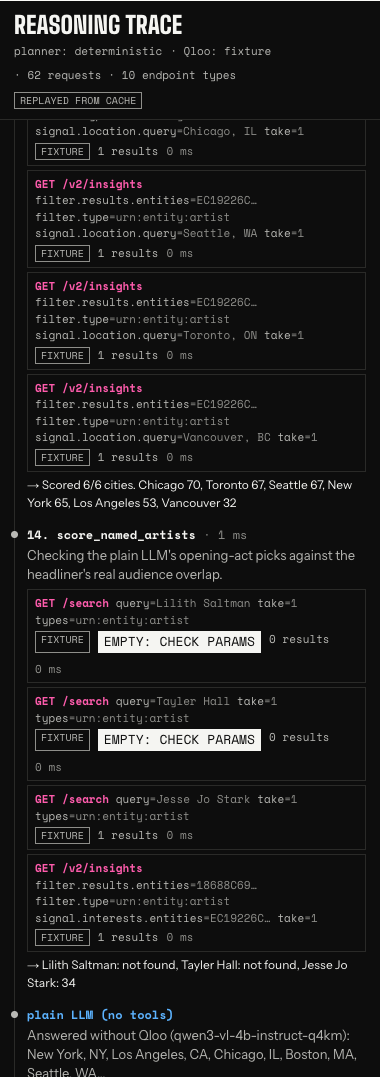
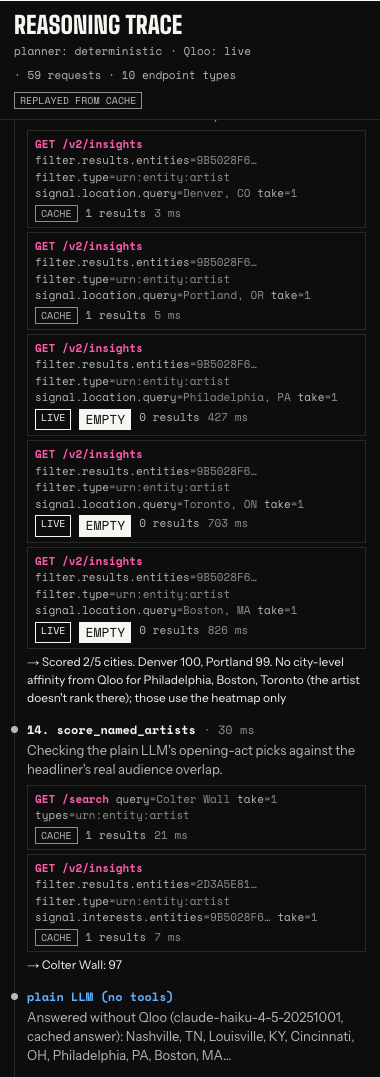
Live: deployed to Vercel (headliner-qloo-eta.vercel.app); README, DEPLOY, SUBMISSION and DEMO_SCRIPT with live numbers; thumbnail, gallery, video cards and README images re-rendered from the live site

diff --git a/docs/SUBMISSION.md b/docs/SUBMISSION.md
@@ -4,7 +4,7 @@ Deadline **30 Oct 2026, 11:45 pm EDT** (31 Oct 03:45 UTC). Judging 2–16 Nov; w
 
 Fields below follow the standard Devpost "Enter a submission" form and the official rules' requirements (functional demo link, public repo with an open-source licence visible in the GitHub About section, text description). The hackathon-specific questions are only visible after logging in; check the form for extra questions and answer them from the sections below. The Qloo hackathon kit's submission guide (github.com/qloo/qloo-hackathon-kit, `docs/SUBMISSION.md`) asks for six things, all covered: problem statement, Qloo workflow and why, a redacted request-to-result example, screenshots, setup steps, and known limitations.
 
-> **Before pasting:** replace every `[[…]]` placeholder with live numbers from the deployed app once the Qloo key is in. Do not publish fixture numbers as Qloo findings.
+> All numbers below are from the live deployment (live Qloo data, 16 Oct 2026, Tyler Childers sample). The plain-LLM answers are cached Claude Haiku 4.5 answers to the app's prompt, and the text says so.
 
 ---
 
@@ -17,10 +17,10 @@ An agent for tour promoters: it routes the tour, picks the opener and finds spon
 _(158 characters)_
 
 ## Thumbnail
-`docs/gallery/thumbnail.png` (1500x1000, 3:2): both routes side by side and the average fan score pair, rendered from a real run by `scripts/assets.ts`. `docs/gallery/thumbnail-300.png` is the gallery-size check. Gallery images: `docs/gallery/01-verdict.png` to `06-brief.png`, in that order. Re-render all of them from live mode once the key is in (design rules: `design/DESIGN.md`, section 6).
+`docs/gallery/thumbnail.png` (1500x1000, 3:2): both routes side by side and the average fan score pair, rendered from a real run by `scripts/assets.ts`. `docs/gallery/thumbnail-300.png` is the gallery-size check. Gallery images: `docs/gallery/01-verdict.png` to `06-brief.png`, in that order. All rendered from the live deployment (design rules: `design/DESIGN.md`, section 6).
 
 ## Try it out
-- Live demo: `https://headliner-qloo.fly.dev` (no login; click **Try a sample → Noah Kahan**)
+- Live demo: `https://headliner-qloo-eta.vercel.app` (no login; click **Try a sample → Tyler Childers**)
 - Code: `https://github.com/ubmids/headliner` (MIT)
 
 ## Video
@@ -43,19 +43,22 @@ Headliner is an **agent for live-music promoters and tour planners**. Type an ar
 
 Every Qloo request (endpoint, parameters, result count, latency) streams into a **reasoning trace** as it happens.
 
-**Without Qloo / with Qloo.** The same question goes to the plain LLM with no tools. Headliner then **fact-checks** that answer with the same Qloo calls it used for its own plan. In [[live run, artist]], the LLM's cities averaged a fan score of [[X]] against [[Y]] for Headliner's route, and it never mentioned [[sleeper market]]. [[Keep only if the live run shows it: Some of its suggested openers don't exist in Qloo at all.]] The brief says it directly: *"If your submission would work the same without Qloo, you're building the wrong thing."* Headliner shows the gap as a number.
+**Without Qloo / with Qloo.** The same question goes to the plain LLM with no tools. Headliner then **fact-checks** that answer with the same Qloo calls it used for its own plan. For an 8-date Tyler Childers tour, the plain LLM (Claude Haiku 4.5, same prompt, no tools; the demo serves its recorded answer) sends him to Philadelphia, Boston and Toronto. Qloo scores those cities 75, 86 and 57 for his fans, and 5 of the LLM's 8 cities land in the bottom half of Qloo's ranking. Headliner's route averages a fan score of **96 against 86**, opens in Asheville, NC (98), a market the LLM never named, and picks Charley Crockett to open (fan overlap 98 vs 97 for the LLM's Colter Wall). The brief says it directly: *"If your submission would work the same without Qloo, you're building the wrong thing."* Headliner shows the gap as a number.
 
 ### How we built it
 - **Next.js 15 + TypeScript**, one app. The agent streams its events (steps, Qloo calls, the LLM baseline, the result) as NDJSON to a React UI with a Leaflet map and hand-built SVG charts.
 - **Agent:** 12 tools, each wrapping documented Qloo calls. An **OpenAI-compatible tool-calling loop** lets the LLM choose the next tool, and every call carries a one-sentence reason that becomes the trace. A deterministic planner runs the same tools when no LLM is configured. A coverage guard refuses to finish a brief until routing, support act and sponsors are each grounded in Qloo results.
 - **Qloo client:** typed endpoints validated with zod, the `hackathon.api.qloo.com` host enforced, retries on 429/5xx, empty-result flagging (Qloo silently ignores invalid parameters), and a server-side cache of responses and finished runs, so judges get instant replays.
 - **Qloo endpoints:** `/search`, `/v2/tags`, `/v2/insights` (heatmap, artist, place, brand, tag, demographics), `/v2/analysis/compare`, `/v2/trending`. About 60 requests per plan.
-- **Scoring:** fan score blends heatmap affinity with location-conditioned artist affinity, normalised across the whole region. Over-index = concentration minus volume (heatmap popularity).
-- **Tests:** 50 unit and integration tests (client, fixtures, scoring, contrast, CSV, the LLM loop with a scripted model, and the full agent on fixtures). One test asserts that every request uses only documented Qloo parameters.
+- **Scoring:** fan score blends heatmap affinity with location-conditioned artist affinity on Qloo's own 0-1 scale (times 100, not rescaled), so strong markets cluster in the 90s and a 10-point gap is large. Tiers compare each market with the rest of the region: over-index = concentration percentile minus volume (heatmap popularity) percentile.
+- **Deploy:** Vercel (free tier). Qloo calls are live from the server; 16 artists are pre-run before each deploy so judges get instant replays, and any other artist runs live in about 15–25 s.
+- **Tests:** 52 unit and integration tests (client, fixtures, scoring, contrast, CSV, the LLM loop with a scripted model, and the full agent on fixtures). One test asserts that every request uses only documented Qloo parameters.
 
 ### Challenges we ran into
 - **No API key for most of the build.** We wrote the client against the published reference and Qloo's own harness, then built a fixture mode by running the real agent against a schema-faithful stand-in. `scripts/qloo-smoke.sh` validated every call the moment the key arrived.
 - **Silent failures.** Qloo ignores invalid parameters, so a typo returns an empty list rather than an error. The client flags every empty result in the trace, and the smoke test checks that location parameters actually change the answer.
+- **Real data broke three assumptions.** The locality heatmap boundary took about 50 s per call live, so the agent now folds geohash cells (2 s) into cities. Trending percentiles came back as rank fractions (0.11 = top 11%), not 0-100. Two cities of one metro (New York and Brooklyn) both made the route, so the planner now books one date per metro.
+- **No LLM key on the host.** The plain-LLM answers are recorded ahead of time and labelled as cached in the UI; everything Qloo is live.
 - **Keeping the LLM honest.** Tools return Qloo IDs and scores. The brief's numbers come from tool results and are never generated, and the coverage guard catches a model that tries to finish early.
 
 ### Accomplishments that we're proud of
@@ -80,26 +83,27 @@ Ticketing and capacity data next to fan concentration (room-size recommendations
 ```
 GET https://hackathon.api.qloo.com/v2/insights
     ?filter.type=urn:heatmap
-    &signal.interests.entities=<Noah Kahan entity ID>
+    &signal.interests.entities=<Tyler Childers entity ID>
     &filter.location=POLYGON((-125 24, -66 24, -66 50, -125 50, -125 24))
     &output.heatmap.boundary=urn:geohash
     &take=50
 X-Api-Key: <redacted>
 → results.heatmap[]: { location: {latitude, longitude}, query: {affinity, affinity_rank, popularity} }
-→ folded to cities; affinity high + popularity low = "sleeper" market ([[live example]])
+→ 6,391 geohash cells, folded to cities; affinity high + popularity low = "sleeper" market
+  (live: Charlottesville, VA, fan score 93, over-indexes +0.26 for its size)
 ```
 
 ---
 
 ## Built with
-`qloo` · `qloo-insights-api` · `typescript` · `next.js` · `react` · `node.js` · `leaflet` · `natural-earth` · `zod` · `vitest` · `openai-compatible-api` · `llm-tool-calling` · `fly.io` · `docker`
+`qloo` · `qloo-insights-api` · `typescript` · `next.js` · `react` · `node.js` · `leaflet` · `natural-earth` · `zod` · `vitest` · `openai-compatible-api` · `llm-tool-calling` · `claude` · `vercel`
 
 ## Submission checklist (rules)
-- [ ] Functional demo link, externally hosted, free, no login, up until 16 Nov 23:45 EST
+- [x] Functional demo link, externally hosted, free, no login: https://headliner-qloo-eta.vercel.app (keep it up until 16 Nov 23:45 EST)
 - [ ] Public GitHub repo with all source, assets and instructions (`README.md`, `docs/DEPLOY.md`)
 - [ ] Open-source licence file (MIT) **visible in the GitHub About section** (GitHub detects `LICENSE` automatically once the repo is public; check the sidebar)
 - [ ] Text description (above), in English
 - [ ] Uses Qloo's API (Stage 1 pass/fail) and is agentic (tool-calling agent)
 - [ ] Video (optional per the rules, but judges "may judge on text, images and video")
-- [ ] Screenshots re-shot in live mode; no fixture numbers presented as Qloo data
+- [x] Screenshots re-shot in live mode; no fixture numbers presented as Qloo data
 - [ ] No API keys in the repo, screenshots or video

diff --git a/docs/DEPLOY.md b/docs/DEPLOY.md
@@ -1,76 +1,70 @@
 # Deploying Headliner
 
-**Host: Fly.io**, one always-on machine (`auto_stop_machines = "off"`, `min_machines_running = 1`) with a 1 GB volume for the server-side cache. Why Fly: it bills per second (about US$3–4/month for a `shared-cpu-1x` 512 MB machine plus the volume), it never sleeps, and the config lives in the repo (`fly.toml`). Free tiers on Render and Railway put idle apps to sleep, and the rules require the demo to stay up through judging (2–16 Nov 2026) with no cold starts.
+**Host: Vercel** (Hobby plan, free), project `headliner-qloo`, production URL **https://headliner-qloo-eta.vercel.app**. Deployed from a local prebuilt build with the Vercel CLI. Git-triggered deployments are switched off in `vercel.json`, because a build from GitHub would not contain the pre-run demo artists (see below).
 
-The `Dockerfile` is host-agnostic, so the same image runs on Railway or Render (paid, always-on plan) if you prefer. The steps for those are at the end.
+## How it works on serverless
 
-## Environment variables
+- **Qloo is live.** `QLOO_API_KEY` is an encrypted (sensitive) Vercel environment variable, read only on the server. The key never reaches the browser: page HTML and every JS bundle were checked for it after deploy.
+- **Caches.** `DATA_DIR=/tmp/headliner` holds the Qloo response cache and finished runs per function instance (memory + `/tmp`). A fresh instance starts empty, so:
+- **Seed runs.** Before each deploy, `scripts/seed-runs.sh` runs the agent against live Qloo for 16 artists (the three samples plus a dozen judges might type) and writes the finished runs to `seed/runs/`. The run cache falls back to that directory, read only, so those artists replay instantly on any instance. `seed/` is gitignored: Qloo response data must not be published in a public repo, so it ships inside the deployment only. `next.config.mjs` traces it into the functions.
+- **The LLM side.** The demo host has no LLM key. The planner is the deterministic one (the same Qloo tools in a fixed order). The "without Qloo" answers are recorded ahead of time from Claude Haiku 4.5 with the app's exact prompt (`scripts/record-baselines.ts`, stored in `fixtures/baseline/`, which is LLM output, not Qloo data) and labelled "cached answer" in the UI. For an artist without a recorded answer, the comparison panel says so and lists the artists that have one.
+- **Duration.** `/api/run` streams NDJSON and allows 300 s (`vercel.json`); a cold live run takes about 15–25 s.
 
-| Variable | Required | Example | Notes |
-|---|---|---|---|
-| `QLOO_API_KEY` | yes, for live data | `(secret)` | Hackathon key from Qloo. Server-side only. Without it the app runs in **fixture mode** (sample artists only, banner shown) |
-| `QLOO_BASE_URL` | no | `https://hackathon.api.qloo.com` | Already set in `fly.toml`. The client refuses any other host |
-| `LLM_BASE_URL` | recommended | `https://api.openai.com/v1` | Any OpenAI-compatible chat-completions endpoint with tool calling |
-| `LLM_API_KEY` | with the above | `(secret)` | Sent as `Authorization: Bearer …` |
-| `LLM_MODEL` | with the above | `gpt-4.1-mini` | Any tool-calling model. Without `LLM_*` the agent uses the deterministic planner and the "without Qloo" panel shows the recorded LLM answer |
-| `DATA_DIR` | no | `/data` | Cache directory (Qloo responses + finished runs). Set in `fly.toml`, on the volume |
-| `MAX_ACTIVE_RUNS` | no | `3` | Concurrent fresh agent runs (protects the Qloo quota) |
+## Environment variables (Vercel, Production)
 
-Use a decent model for `LLM_MODEL`: the "without Qloo" column must be a fair answer from a capable LLM, not a strawman. The recorded baselines in `fixtures/baseline/` came from a small local model (Qwen3-VL 4B on llama.cpp). Re-record them with the production model (step 6).
+| Variable | Value | Notes |
+|---|---|---|
+| `QLOO_API_KEY` | (secret) | Added with `--sensitive`. Server-side only |
+| `QLOO_BASE_URL` | `https://hackathon.api.qloo.com` | The client refuses any other host |
+| `DATA_DIR` | `/tmp/headliner` | The only writable path on Vercel functions |
 
-## First deploy (about 15 minutes)
+Do **not** add `LLM_*` variables on the host: the owner's LLM key never goes on a server. (Setting them would also change the run-cache key, so the seed runs would stop matching.)
+
+## Redeploy (about 3 minutes)
 
 ```bash
-# 0. Install flyctl and log in
-curl -L https://fly.io/install.sh | sh
-fly auth login
-
-# 1. From the repo root: create the app from fly.toml without deploying yet
-fly launch --no-deploy --copy-config --name headliner-qloo --region iad
-#    (if the name is taken, pick another and update `app` in fly.toml)
-
-# 2. Volume for the cache (same region as the machine)
-fly volumes create headliner_data --region iad --size 1 --yes
-
-# 3. Secrets
-fly secrets set QLOO_API_KEY=... LLM_BASE_URL=https://api.openai.com/v1 LLM_API_KEY=... LLM_MODEL=gpt-4.1-mini
-
-# 4. Deploy
-fly deploy
-
-# 5. Verify: expect {"ok":true,"qloo":"live","planner":"llm","model":"..."}
-curl -s https://headliner-qloo.fly.dev/api/health
-fly status          # exactly 1 machine, state "started"
-fly scale count 1   # one machine (the cache volume is per machine)
-
-# 6. Before judging: smoke-test Qloo, re-record baselines with the production LLM, warm the cache
-QLOO_API_KEY=... scripts/qloo-smoke.sh
-LLM_BASE_URL=... LLM_API_KEY=... LLM_MODEL=... npx tsx scripts/record-baselines.ts && git commit -am "Re-record baselines with the production LLM" && fly deploy
-npx tsx scripts/warm-cache.ts https://headliner-qloo.fly.dev
+# 0. Once: Vercel CLI logged in, project linked (vercel link --project headliner-qloo)
+# 1. Load the Qloo key for local runs only (never commit it, never echo it)
+set -a; . ~/.config/hackathons/qloo.env; set +a; export QLOO_BASE_URL="$QLOO_API_URL"
+# 2. Optional: check every Qloo endpoint the app uses
+npx tsx scripts/qloo-smoke.ts --no-record
+# 3. Build, then pre-run the demo artists into seed/runs/ (needs the build; reuses .data/qloo to save quota)
+npm run build && scripts/seed-runs.sh
+# 4. Build for Vercel and deploy the prebuilt output (seed/runs is traced into the functions)
+vercel pull --yes --environment=production
+vercel build --prod && vercel deploy --prebuilt --prod
+# 5. Verify
+curl -s https://headliner-qloo-eta.vercel.app/api/health    # {"ok":true,"qloo":"live","planner":"rules","recorded":[...16 artists]}
 ```
 
-`warm-cache.ts` runs the agent for the three samples and about a dozen artists judges are likely to type. Finished runs are cached on the volume and replayed instantly, trace included.
+To record "without Qloo" answers for more artists (local only, through an OpenAI-compatible endpoint):
+
+```bash
+LLM_BASE_URL=http://127.0.0.1:8765/v1 LLM_MODEL=claude-haiku-4-5-20251001 npx tsx scripts/record-baselines.ts "Artist|north-america" "Band|uk-europe"
+```
+
+Then add the same artists to `scripts/seed-runs.sh` and redeploy.
+
+## Regenerating the submission assets
+
+```bash
+CHROME="/path/to/chrome" npx tsx scripts/assets.ts https://headliner-qloo-eta.vercel.app "Tyler Childers" north-america   # thumbnail, gallery, video cards
+CHROME="/path/to/chrome" npx tsx scripts/screenshots.ts https://headliner-qloo-eta.vercel.app                           # README images
+```
 
 ## Checks before 2 Nov (and once a week until 16 Nov)
 
-- `curl https://headliner-qloo.fly.dev/api/health` returns `"qloo":"live"`.
-- Open the site on a phone, click **Noah Kahan**: the brief appears in under 5 s (cached replay).
-- Type an artist that isn't cached: the trace streams, and the run finishes in about 20–60 s depending on the LLM.
-- `fly logs` shows no `Qloo 401/403/429`. If the quota runs low, ask in #api-help on the Qloo Discord (the dev guide says limits can be raised per user).
+- `curl https://headliner-qloo-eta.vercel.app/api/health` returns `"qloo":"live"`.
+- Open the site on a phone, click **Tyler Childers**: the brief appears in a few seconds (replay from the seed).
+- Type an artist that isn't seeded: the trace streams and the run finishes in about 15–25 s.
+- `vercel logs headliner-qloo-eta.vercel.app` shows no `Qloo 401/403/429`. If the quota runs low, ask in #api-help on the Qloo Discord.
 
-## Local production check (already verified on mmfarm, 13 Oct 2026)
+## Other hosts
+
+The `Dockerfile` and `fly.toml` still work for an always-on container (Fly.io about US$3–4 a month with a volume; Railway or Render on a paid plan). On those hosts the disk cache persists, so seed runs are optional: run `scripts/warm-cache.ts <url>` after deploying instead.
 
 ```bash
 npm ci && npm run build
 cp -r .next/static .next/standalone/.next/static && cp -r public .next/standalone/public
 cd .next/standalone && PORT=3077 DATA_DIR=/tmp/hl-data node server.js
-curl -s localhost:3077/api/health
 ```
-
-## Alternatives
-
-**Railway** (paid "Hobby" plan; services don't sleep): New Project → Deploy from GitHub repo → it detects the `Dockerfile`. Add the variables above, plus a volume mounted at `/data`. Set the health check path to `/api/health`.
-
-**Render** (needs a paid instance type; the free tier sleeps after 15 minutes): New → Web Service → Docker. Instance type Starter or above, Persistent Disk at `/data`, health check path `/api/health`, and the variables above.
-
-**Vercel** works for the UI, but serverless functions have no shared disk cache and cap function duration, so a slow LLM run can be cut off. Not recommended for this app.

diff --git a/README.md b/README.md
@@ -1,13 +1,17 @@
 # Headliner: tour decisions on Qloo taste data, not guesswork
 
-**Headliner is an agent for live-music promoters and tour planners. Give it an artist and it routes the tour, picks the opening act and lines up sponsors, using Qloo's taste graph. Every Qloo call it makes is shown in a live reasoning trace, and its plan sits next to a plain LLM's answer to the same question.** Ask a plain LLM to route a folk-pop tour and you get the usual big cities (New York, Los Angeles, Chicago) and the usual sponsors (Coca-Cola, Pepsi). Headliner asks **Qloo** where the fans actually concentrate. It finds the *sleeper* markets that over-index for their size, the opener whose fans overlap in each city, and the brands this audience buys. Then it scores the LLM's cities with the same Qloo calls, so the difference is measured rather than claimed.
+**Headliner is an agent for live-music promoters and tour planners. Give it an artist and it routes the tour, picks the opening act and lines up sponsors, using Qloo's taste graph. Every Qloo call it makes is shown in a live reasoning trace, and its plan sits next to a plain LLM's answer to the same question.** Ask a plain LLM (Claude Haiku 4.5) to route an 8-date Tyler Childers tour and it sends him to Philadelphia, Boston and Toronto. Qloo scores those cities 75, 86 and 57 for his fans; Headliner's route averages **96 vs 86** and starts in Asheville, NC, a market the LLM never named. Headliner asks **Qloo** where the fans actually concentrate. It finds the *sleeper* markets that over-index for their size, the opener whose fans overlap in each city, and the brands this audience buys. Then it scores the LLM's cities with the same Qloo calls, so the difference is measured rather than claimed.
 
-![Without Qloo vs with Qloo: the plain LLM's cities scored by Qloo, next to Headliner's routed tour (fixture mode: illustrative data)](docs/img/contrast.png)
-<sub>Screenshot from **fixture mode**. The plain-LLM column is a real recorded LLM answer. The Qloo numbers are illustrative placeholders in Qloo's documented response format, used until the hackathon API key is live.</sub>
+![Without Qloo vs with Qloo: the plain LLM's cities scored by Qloo, next to Headliner's routed tour for Tyler Childers](docs/img/contrast.png)
+<sub>Live Qloo data (hackathon API, 16 Oct 2026). The plain-LLM column is a cached answer from Claude Haiku 4.5 to the same prompt; see "What's live and what's cached" below.</sub>
 
-<!-- After the Qloo key arrives: run scripts/qloo-smoke.sh, then scripts/screenshots.ts against live mode, and replace the screenshots and the sentence above with the real numbers. -->
+**Live demo: https://headliner-qloo-eta.vercel.app** · no login · one click: **Try a sample → Tyler Childers**
 
-**Live demo:** _URL here after deploy_ · no login · one click: **Try a sample → Noah Kahan**
+### What's live and what's cached
+
+- **Qloo: live.** Every request in the trace goes to `hackathon.api.qloo.com`. Responses and finished runs are cached server-side, and 16 artists (the samples plus a dozen judges might type) are pre-run before each deploy so they replay instantly. Any other artist runs live, in about 15–25 s.
+- **Planner: deterministic** on the demo host (the same 12 Qloo tools in a fixed order). With `LLM_*` configured, a tool-calling LLM plans instead ([example run](docs/LLM_PLANNER_RUN.md)).
+- **"Without Qloo" answers: cached.** The demo host holds no LLM key, so the plain-LLM answers were recorded ahead of time from Claude Haiku 4.5 with the app's exact prompt (`fixtures/baseline/`, labelled "cached answer" in the UI) for those 16 artists. For other artists the comparison panel says so instead of inventing one.
 
 ---
 
@@ -57,13 +61,14 @@ This answers the hackathon brief's line, *"If your submission would work the sam
 |---|---|
 | ![Routing](docs/img/routing.png) | ![Trace](docs/img/trace.png) |
 
-Full page: [desktop](docs/img/full-desktop.png) · [mobile](docs/img/mobile.png) · [printable brief](docs/img/brief.png). Devpost gallery and thumbnail: [`docs/gallery/`](docs/gallery). All screenshots are from fixture mode (illustrative data).
+Full page: [desktop](docs/img/full-desktop.png) · [mobile](docs/img/mobile.png) · [printable brief](docs/img/brief.png). Devpost gallery and thumbnail: [`docs/gallery/`](docs/gallery). All screenshots are from the live deployment (live Qloo data).
 
 ## Architecture
 
 - **Next.js 15 + TypeScript**, one deployable app. `POST /api/run` streams agent events as NDJSON, and the UI renders the reasoning trace as they arrive.
 - **Agent** (`src/lib/agent/`): 12 Qloo-backed tools. With `LLM_*` set, an OpenAI-compatible tool-calling loop chooses the tools and writes the brief. Every tool call carries a one-line `reason` shown in the trace. Without an LLM, a deterministic planner runs the same tools. A coverage guard makes sure every decision in the brief is grounded in Qloo before the run finishes. [Example of a real LLM-planned run](docs/LLM_PLANNER_RUN.md).
 - **Qloo client** (`src/lib/qloo/`): typed endpoints with zod schemas, retries on 429/5xx, flags empty results (Qloo silently ignores invalid parameters), refuses any host other than `hackathon.api.qloo.com`, and caches responses server-side (memory + disk). Finished runs are cached too and replayed with their trace, so judging never waits.
+- **Deploy**: Vercel, from a local prebuilt build so the pre-run demo artists (`seed/runs/`, gitignored: Qloo data stays out of the repo) ship with the functions. See [docs/DEPLOY.md](docs/DEPLOY.md).
 - **Fixture mode**: with no `QLOO_API_KEY`, Qloo answers come from `fixtures/qloo/`, generated by running the real agent against a schema-faithful stand-in. They are **labelled as fixtures in the UI and the code**, and the names and scores in them are placeholders. `scripts/qloo-smoke.sh` re-records real fixtures into `fixtures/live/`, which is gitignored because Qloo data must not be published in a public repo.
 - **Map**: Leaflet over a self-hosted Natural Earth basemap, so no tile service can rate-limit or expire during judging.
 
@@ -73,7 +78,7 @@ Full page: [desktop](docs/img/full-desktop.png) · [mobile](docs/img/mobile.png)
 npm ci
 cp .env.example .env      # leave QLOO_API_KEY empty for fixture mode
 npm run dev               # http://localhost:3000, then click a sample artist
-npm test                  # 50 tests
+npm test                  # 52 tests
 ```
 
 With a key: `QLOO_API_KEY=... scripts/qloo-smoke.sh` checks every endpoint and parameter the app uses, then re-records fixtures. Deploy: see [docs/DEPLOY.md](docs/DEPLOY.md).

diff --git a/docs/DEMO_SCRIPT.md b/docs/DEMO_SCRIPT.md
@@ -2,22 +2,25 @@
 
 **Rule for this video:** the payoff (plain LLM vs Qloo on a real artist) is on screen **before 0:20**. Judges include Live Nation's EVP of Strategic Initiatives, an owner of sports and entertainment franchises, and an investor: talk like a promoter, not like an engineer. Show Subomi on camera (face cam in a corner) for the open and the close.
 
-**Record in live mode** (real Qloo key, production LLM) on the deployed URL. Do the run once off camera first, so the on-camera run is a cached replay and the trace still animates. Use the artist whose live contrast is strongest (check Noah Kahan, Tyler Childers and Fontaines D.C. after the smoke test, and pick one). Fill the `[[…]]` from that run.
+**Record on the deployed URL: https://headliner-qloo-eta.vercel.app** (live Qloo data). Tyler Childers has the strongest live contrast of the samples, so he is the first sample button and the artist in the thumbnail and gallery. His run is pre-recorded on the host, so the on-camera click is an instant replay and the trace still animates. Numbers below are from that live run (16 Oct 2026); they stay the same until the seed runs are re-recorded.
+
+Say "a plain LLM" or "Claude Haiku, asked the same question". The demo host has no LLM key, so the "without Qloo" column is a cached Haiku answer; the UI labels it "cached answer", which is fine to show.
 
 | Time | Screen | Voice-over (Subomi) |
 |---|---|---|
 | 0:00–0:06 | Face cam, then the Headliner home page | "Routing a 20-city tour is a multi-million-dollar bet. Here's what happens when you ask an AI to make it." |
-| 0:06–0:20 | Click **Try a sample → [[artist]]**. Cut straight to the **Without Qloo / With Qloo** panel. Zoom on the callout and the "[[X]] vs [[Y]]" stat | "A plain LLM sends [[artist]] to New York, LA and Chicago. Headliner asks Qloo where the fans actually are, and scores the LLM's own cities: an average fan score of [[Y]] against [[X]]. It also found [[sleeper city]], which the LLM never mentioned." |
-| 0:20–0:35 | Scroll the **reasoning trace**; hover one heatmap call and one `signal.location.query` call | "This is the agent working. Every line is a real Qloo call it chose: the heatmap of where fans concentrate, then each city scored with Qloo's location-aware affinity. [[N]] calls, five endpoints." |
-| 0:35–0:55 | **Routing** card: the map with tiers, the route, the blue dashed rings for the LLM's picks. Hover a sleeper market | "Anchor markets you'd expect. The sleepers are the money: [[city]] over-indexes for its size, so you play a smaller room and sell it out. Every stop comes with venues whose crowds share this taste." |
-| 0:55–1:15 | **Support act** card: top three acts and the per-market overlap table | "Openers: artists these fans love, capped below the headliner, then re-ranked city by city. [[act]] is strongest in [[city]], and Qloo's audience comparison says why: [[shared tags]]." |
-| 1:15–1:30 | **Sponsors & merch** card; point at a local-only lead | "And who pays for it. Qloo's cross-domain graph shows what this crowd buys: [[brand]] tour-wide, [[local brand]] only in [[city]]. An LLM can't know that." |
+| 0:06–0:20 | Click **Try a sample → Tyler Childers**. The **Without Qloo / With Qloo** panel is the first thing on screen. Zoom on the "96 / 86" column | "Ask a plain LLM to route Tyler Childers and it sends him to Philadelphia, Boston and Toronto. Headliner asks Qloo where his fans actually are, and scores the LLM's own cities: Toronto 57, Philadelphia 75. Headliner's route averages 96 against 86, and it opens in Asheville, which the LLM never named." |
+| 0:20–0:35 | Scroll the **reasoning trace**; hover the heatmap call (`urn:heatmap`) and one `signal.location.query` call | "This is the agent working. Every line is a real Qloo call: the heatmap of where fans concentrate, then each city scored with Qloo's location-aware affinity. 59 calls, five endpoints." |
+| 0:35–0:55 | **Routing**: the date stack, then the map (pink = sleeper, blue dashed rings = the LLM's picks). Hover **Charlottesville, VA** (the pink bar in the ranked list) | "Asheville, Knoxville, Lexington, Louisville: the Appalachian core you'd hope for, with real rooms from Qloo, the Orange Peel, Rupp Arena. And the sleeper: Charlottesville over-indexes for its size, so you play a smaller room and sell it out." |
+| 0:55–1:15 | **Support act**: the three openers and the per-market overlap table | "Openers: artists these fans love, capped below the headliner, then re-ranked city by city. Charley Crockett is strongest in Asheville, and Qloo's audience comparison says why: acoustic guitar, folk, blues, country." |
+| 1:15–1:30 | **Sponsors & merch**; point at the local leads under Food & drink | "And who pays for it. Qloo's cross-domain graph shows what this crowd buys: Twisted Tea tour-wide, Coors Banquet only in Boulder. An LLM can't know that." |
 | 1:30–1:40 | Click **Open printable brief**, then **Download CSV** | "One page and a spreadsheet to take into the meeting." |
 | 1:40–1:50 | Face cam | "Headliner: tour decisions on taste data, not guesswork. Built on Qloo." |
 
 ## Shot list and tips
 - 1080p, browser at 1440 px wide, zoom 110%. Hide bookmarks. Make sure no key is visible anywhere (the trace never shows the key, but terminal windows might).
 - On-screen captions for every number; many judges watch muted.
-- Lower-third at 0:06: "Without Qloo vs with Qloo: same question, same scoring." Overlay `docs/video/lower-third.png` (transparent 1920x1080). Open on `docs/video/title.png`, close on `docs/video/end.png` (re-render all three with `scripts/assets.ts` in live mode).
-- Don't show the fixture banner. The video must be recorded in live mode.
-- Thumbnail: `docs/gallery/thumbnail.png`, the two routes and the "[[X]] vs [[Y]]" stat (re-rendered from the live run).
+- Lower-third at 0:06: "Without Qloo vs with Qloo: same question, same scoring." Overlay `docs/video/lower-third.png` (transparent 1920x1080). Open on `docs/video/title.png`, close on `docs/video/end.png` (already rendered from the live run).
+- The page shows a one-line "Live Qloo data" note under the samples; leave it in shot, it is the honesty line.
+- Optional live moment: type an artist that is not pre-recorded (e.g. Wet Leg, UK & Europe) to show a cold run; it takes about 15–25 s and the comparison panel says no plain-LLM answer is recorded for that artist.
+- Thumbnail: `docs/gallery/thumbnail.png`, the two routes and 96 vs 86 (rendered from the live run).

diff --git a/CLAUDE.md b/CLAUDE.md
@@ -10,6 +10,10 @@ The five rules most likely to be broken:
 
 1. **One pink, and it means Qloo.** Pink only on Qloo's route, score, sleeper markets and stops the LLM missed (plus the wordmark overprint). Blue only for the plain LLM. No pink buttons, stamps, backgrounds or decoration; no new hues.
 2. **Loud type, calm data.** Big Shoulders Display for the verdict, route cities, headings and wordmark only. Tables, the trace, captions and lists are Instrument Sans or Space Mono at 13px and up on hairlines.
-3. **Verdict above the fold.** After a run, a 1440x900 screenshot shows 83 vs 72 and both routes without scrolling.
+3. **Verdict above the fold.** After a run, a 1440x900 screenshot shows the average fan score pair (96 vs 86 for Tyler Childers) and both routes without scrolling.
 4. **Load the fonts with `next/font/google`.** Big Shoulders Display, Instrument Sans, Space Mono via the `--font-display/body/mono` variables. Never Inter, Arial Black or the system stack as the design.
 5. **No horizontal scroll at 390px.** Grid columns use `minmax(0, 1fr)`; test 1440, 1280 and 390 widths before committing UI.
+
+## Live mode and deploy
+
+Live on Vercel: https://headliner-qloo-eta.vercel.app. Follow `docs/DEPLOY.md` (prebuilt deploy with `seed/runs`; git deploys are off). The Qloo key lives in `~/.config/hackathons/qloo.env` and as an encrypted Vercel env var only: never commit, print or screenshot it. Never put an LLM key on the host; "without Qloo" answers are recorded locally (`scripts/record-baselines.ts`). `seed/`, `.data/` and `fixtures/live/` hold Qloo data and stay out of git.
